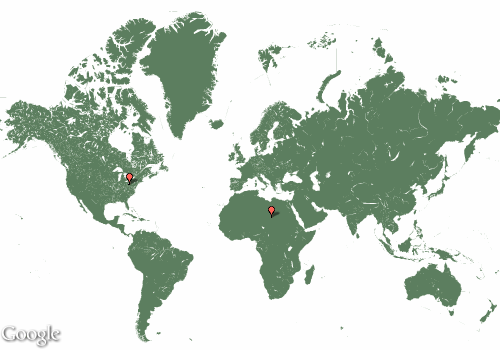
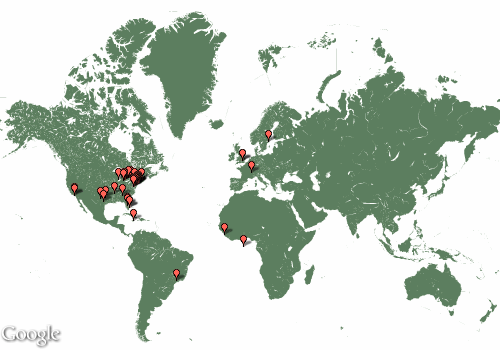
Fixed map generation with new styles

diff --git a/app/jobs/map_job.rb b/app/jobs/map_job.rb
@@ -8,9 +8,15 @@ class MapJob
   end
 
   def getMap(locations)
-    map_url = "http://maps.googleapis.com/maps/api/staticmap?center=45,5&zoom=1&format=png&sensor=false&size=500x350&maptype=roadmap&style=feature:water|visibility:on|hue:0xff1100|lightness:100&style=feature:administrative|hue:0x0000ff|visibility:off&style=feature:water|element:labels|visibility:off&style=feature:poi|visibility:off&style=feature:landscape|element:geometry|visibility:on|hue:0x00ff19|lightness:-55"
+    map_url = "http://maps.googleapis.com/maps/api/staticmap?zoom=1&format=png&sensor=false&size=500x350&maptype=roadmap&center=45,5"
     markers = locations.collect { |location| location.latitude + "," + location.longitude}.join("|")
     map_url = map_url + "&markers=size:tiny%7Ccolor:red%7C" + URI.escape(markers)
+    map_url = map_url + ["feature:water|visibility:on|hue:0xff1100|lightness:100",
+                    "feature:administrative|hue:0x0000ff|visibility:off",
+                    "feature:water|element:labels|visibility:off",
+                    "feature:poi|visibility:off",
+                    "feature:landscape|element:geometry|visibility:on|hue:0x00ff19|lightness:-55"].inject("") {|memo, f| memo + "&style=" + URI.escape(f)}
+    puts map_url
     uri = URI.parse(map_url)
     http = Net::HTTP.new(uri.host, uri.port)
     begin
